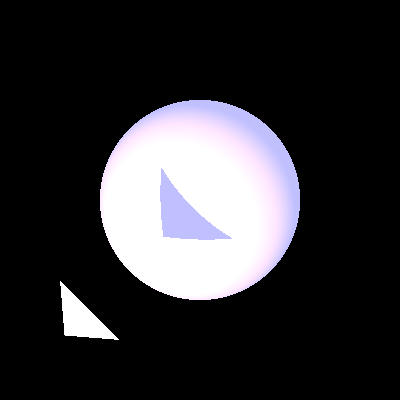
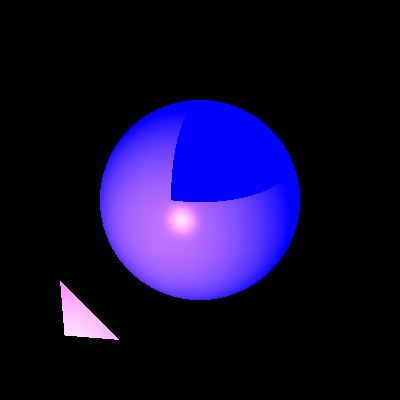
exercice7 part1

Changed region(s): [[0.24, 0.24, 0.75, 0.75], [0.15, 0.69, 0.3, 0.87]]

diff --git a/tests/elements/ShadowTests.java b/tests/elements/ShadowTests.java
@@ -82,17 +82,17 @@ public class ShadowTests {
                         .setMaterial(new Material().setKd(0.5).setKs(0.5).setShininess(30)) //
         );
         scene.lights.add( //
-                new SpotLight(new Color(400, 240, 0), new Point3D(-50, -50, 100), new Vector(1, 1, -3)) //
+                new SpotLight(new Color(400, 240, 0), new Point3D(-112, -126, 114), new Vector(42.18, 86.34, -114.59)) //
                         .setKl(1E-5).setKq(1.5E-7));
 
         Render render = new Render(). //
-                setImageWriter(new ImageWriter("shadowSphereTriangleInitial2", 400, 400)) //
+                setImageWriter(new ImageWriter("shadowSphereTriangleInitial1", 400, 400)) //
                 .setCamera(camera) //
                 .setRayTracer(new BasicRayTracer(scene));
         render.renderImage();
         render.writeToImage();
     }
-
+    @Test
     public void sphereTriangleInitial2() {
         scene.geometries.add( //
                 new Sphere(60, new Point3D(0, 0, -200)) //
@@ -103,11 +103,53 @@ public class ShadowTests {
                         .setMaterial(new Material().setKd(0.5).setKs(0.5).setShininess(30)) //
         );
         scene.lights.add( //
-                new SpotLight(new Color(400, 240, 0),new Point3D(-25, -25, 75), new Vector(1, 1, -3)) //
+                new SpotLight(new Color(400, 240, 0),new Point3D(-112.37, -55.62, 100), new Vector(-51.25, -9.73, -74.87)) //
                         .setKl(1E-5).setKq(1.5E-7));
 
         Render render = new Render(). //
                 setImageWriter(new ImageWriter("shadowSphereTriangleInitial2", 400, 400)) //
+                .setCamera(camera) //
+                .setRayTracer(new BasicRayTracer(scene));
+        render.renderImage();
+        render.writeToImage();
+    }
+    @Test
+    public void sphereTriangleInitial3() {
+        scene.geometries.add( //
+                new Sphere(60, new Point3D(0, 0, -200)) //
+                        .setEmmission(new Color(java.awt.Color.BLUE)) //
+                        .setMaterial(new Material().setKd(0.5).setKs(0.5).setShininess(30)), //
+                new Triangle(new Point3D(-70, -40, -71), new Point3D(-40, -70, -71), new Point3D(-68, -68, -75)) //
+                        .setEmmission(new Color(java.awt.Color.BLUE)) //
+                        .setMaterial(new Material().setKd(0.5).setKs(0.5).setShininess(30)) //
+        );
+        scene.lights.add( //
+                new SpotLight(new Color(400, 240, 0), new Point3D(-112, -126, 114), new Vector(42.18, 86.34, -114.59)) //
+                        .setKl(1E-5).setKq(1.5E-7));
+
+        Render render = new Render(). //
+                setImageWriter(new ImageWriter("shadowSphereTriangleInitial3", 400, 400)) //
+                .setCamera(camera) //
+                .setRayTracer(new BasicRayTracer(scene));
+        render.renderImage();
+        render.writeToImage();
+    }
+    @Test
+    public void sphereTriangleInitial4() {
+        scene.geometries.add( //
+                new Sphere(60, new Point3D(0, 0, -200)) //
+                        .setEmmission(new Color(java.awt.Color.BLUE)) //
+                        .setMaterial(new Material().setKd(0.5).setKs(0.5).setShininess(30)), //
+                new Triangle(new Point3D(-70, -40, 10), new Point3D(-40, -70, 10), new Point3D(-68, -68, 6)) //
+                        .setEmmission(new Color(java.awt.Color.BLUE)) //
+                        .setMaterial(new Material().setKd(0.5).setKs(0.5).setShininess(30)) //
+        );
+        scene.lights.add( //
+                new SpotLight(new Color(400, 240, 0), new Point3D(-112, -126, 114), new Vector(42.18, 86.34, -114.59)) //
+                        .setKl(1E-5).setKq(1.5E-7));
+
+        Render render = new Render(). //
+                setImageWriter(new ImageWriter("shadowSphereTriangleInitial4", 400, 400)) //
                 .setCamera(camera) //
                 .setRayTracer(new BasicRayTracer(scene));
         render.renderImage();

diff --git a/src/primitives/Ray.java b/src/primitives/Ray.java
@@ -29,32 +29,15 @@ public Ray (Point3D point, Vector n, Vector direction)
      * @return closest point
      */
 
-//    public Point3D findClosestPoint(List<Point3D> pointsList){
-//        Point3D result=null;
-//        double closestDistance=Double.MAX_VALUE;
-//
-//        if(pointsList==null){
-//            return null;
-//        }
-//        for(Point3D p:pointsList){
-//            double temp=p.distance(_p0);// temp is the distance between a point in the list and the _p0 of the ray
-//            if(temp<closestDistance){
-//                closestDistance=temp;// closestDistance is the minimum temp
-//                result=p;
-//            }
-//        }
-//        return result; //result is the closest point to the ray
-//
-//    }
-    public /*GeoPoint*/ Point3D findClosestPoint(List<Point3D> pointsList){
-        //GeoPoint result=null;
-        Point3D result=null;
+    public Point3D findClosestPoint(List<Point3D> pointsList){
+
+       Point3D result=null;
         double closestDistance=Double.MAX_VALUE;
 
         if(pointsList==null){
             return null;
         }
-        for(/*GeoPoint*/ Point3D p:pointsList){
+        for(Point3D p:pointsList){
             double temp=p.distance(_p0);// temp is the distance between a point in the list and the _p0 of the ray
             if(temp<closestDistance){
                 closestDistance=temp;// closestDistance is the minimum temp
@@ -65,7 +48,7 @@ public Ray (Point3D point, Vector n, Vector direction)
 
     }
 
-//
+
 //    public Point3D findClosestPoint(Ray ray){
 //        List<GeoPoint>intersections= find
 //        Point3D result=null;

diff --git a/src/scene/Scene.java b/src/scene/Scene.java
@@ -11,7 +11,7 @@ import java.util.List;
 public class Scene {
     private final String _name;
     public Color background=Color.BLACK;
-  ////  public AmbientLight ambientLight=new AmbientLight(new Color(192, 192, 192),1.d);
+  //  public AmbientLight ambientLight=new AmbientLight(new Color(192, 192, 192),1.d);
   public AmbientLight ambientLight=new AmbientLight(Color.BLACK,1.d);
     public Geometries geometries=null;
     public List<LightSource> lights =new LinkedList<>();
